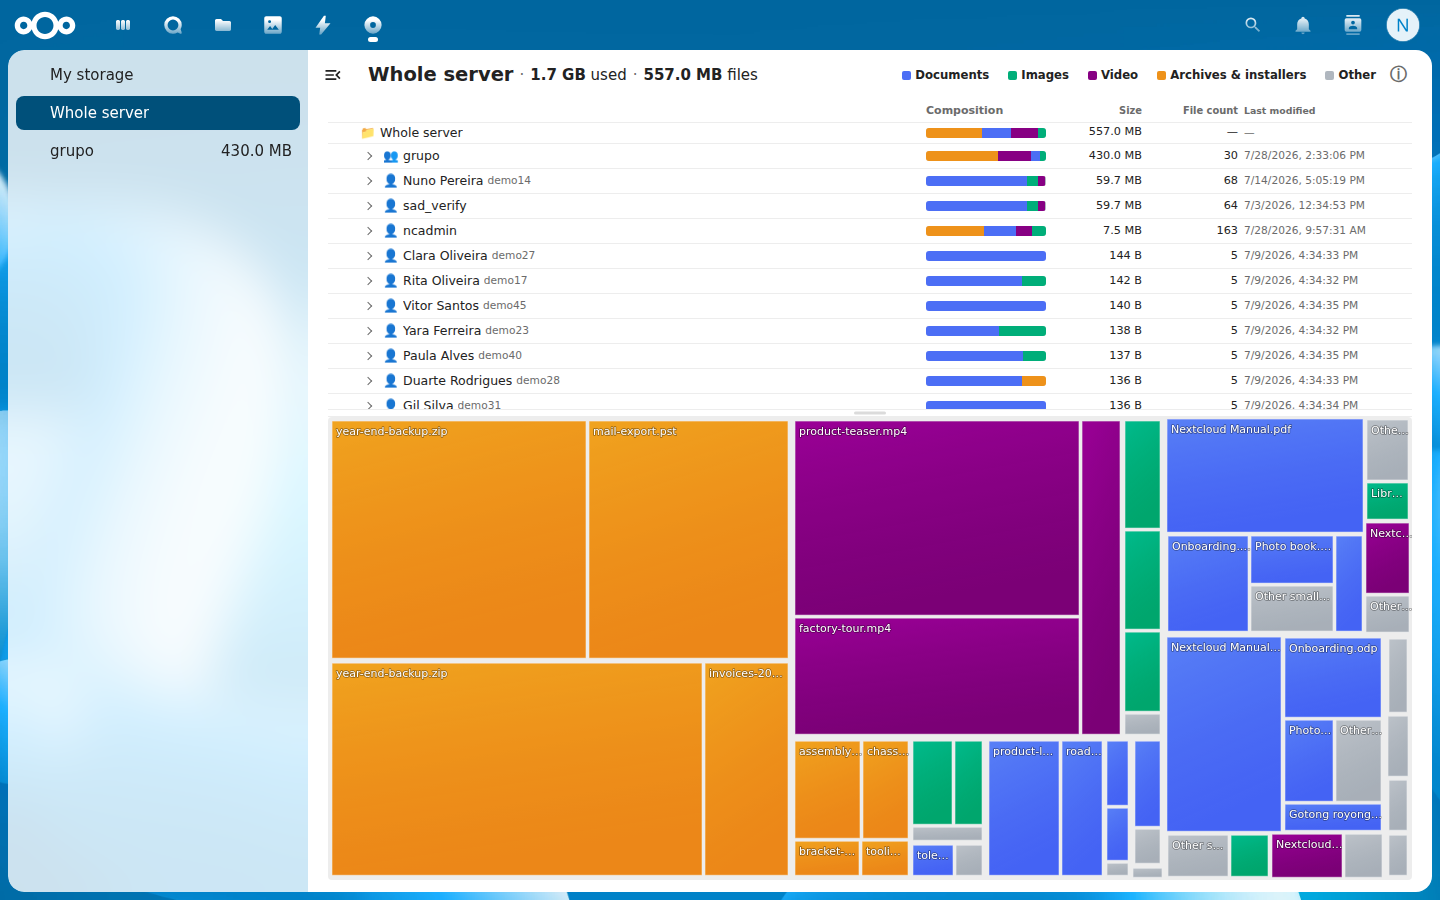
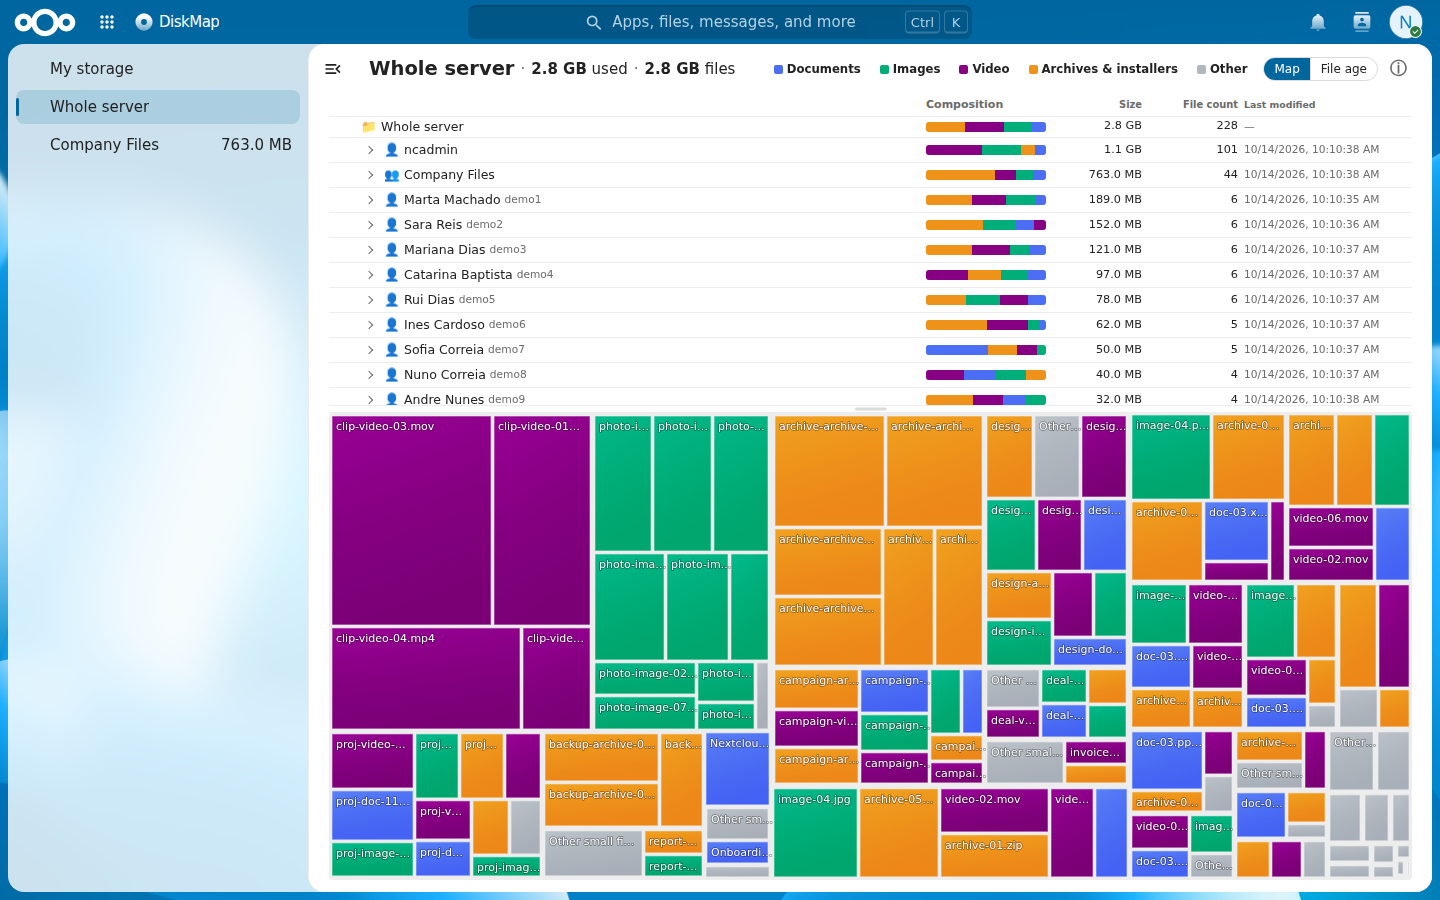
Prepare the 0.5.0 App Store release

diff --git a/README.md b/README.md
@@ -61,6 +61,10 @@ I/O, no background job.**
   library is distinguishable from a 100 GB backup dump at a glance.
 - **Category filter** — click a legend entry to dim everything that is not
   that category across the whole map.
+- **File age** — switch the lower pane from the map to a breakdown of files
+  by last-modified date (up to 1 year, 1-3, 3-6, 6-10, over 10 years), by
+  count or by size. It follows the folder selected in the tree and the
+  category filter, so stale data that is safe to archive stands out.
 - **Cache timestamp** — every view states when the underlying file cache entry
   was last updated, so it stays clear that this reflects what Nextcloud knows,
   not a live disk read.
@@ -208,6 +212,7 @@ The app interface is available in:
 - **Portuguese (Portugal)** / Português (Portugal)
 - **German** / Deutsch
 - **Spanish** / Español
+- **French** / Français
 
 Contributions for additional languages are welcome — add a `l10n/<locale>.json`
 and regenerate the matching `l10n/<locale>.js` with `python3 build/l10n.py`.
@@ -316,9 +321,14 @@ Pull requests welcome! Please open an issue first to discuss significant changes
 
 ![Tree to map sync](screenshots/4-tree-map-sync.png)
 
+| File age (team folder, by count) | File age (one folder, by size) |
+|---|---|
+| ![File age](screenshots/5-file-age.png) | ![File age for a folder](screenshots/6-file-age-folder.png) |
+
 *The snapshots above show the admin whole-server view, the per-user personal
-view, a team folder broken down by folder and file type, and the tree→map sync
-lighting up one account's region while dimming the rest.*
+view, a team folder broken down by folder and file type, the tree→map sync
+lighting up one team folder's region while dimming the rest, and the file age
+view over a whole team folder and then scoped to its Archive folder.*
 
 
 ## Changelog

diff --git a/CHANGELOG.md b/CHANGELOG.md
@@ -8,6 +8,25 @@
 All notable changes to this project are documented in this file.
 Format based on [Keep a Changelog](https://keepachangelog.com/en/1.1.0/).
 
+## [0.5.0] - 2026-10-14
+
+### Added
+- **File age view** (community contribution by @DidierSardine): a
+  *Map | File age* switch in the header of every view (My storage, Whole
+  server, team folders and external storages) swaps the lower pane between
+  the treemap and a breakdown of files by last-modified date, in five
+  buckets: up to 1 year, 1-3, 3-6, 6-10 and over 10 years. Bars show either
+  file count or total size, with a share donut beside them when the pane is
+  wide enough. The panel follows the folder selected in the tree and the
+  category filter, so "how old are the videos in this folder?" is two
+  clicks. The chosen view is remembered per browser, like the tree/map
+  split.
+- The histogram is one grouped query per scope, using the same portable SQL
+  and index hint as the composition queries, and is cached for 5 minutes per
+  scope, folder and category.
+- **French** translation of the whole interface (community contribution by
+  @DidierSardine).
+
 ## [0.4.0] - 2026-09-03
 
 ### Added
